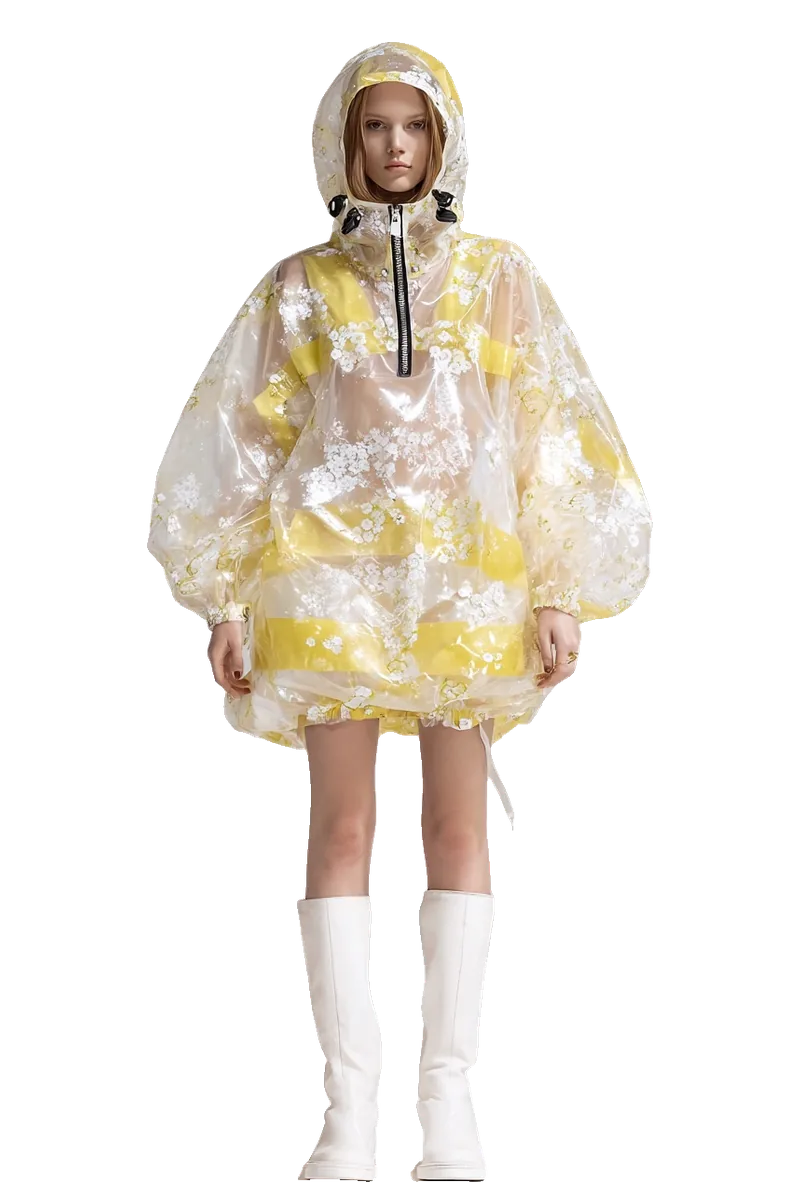
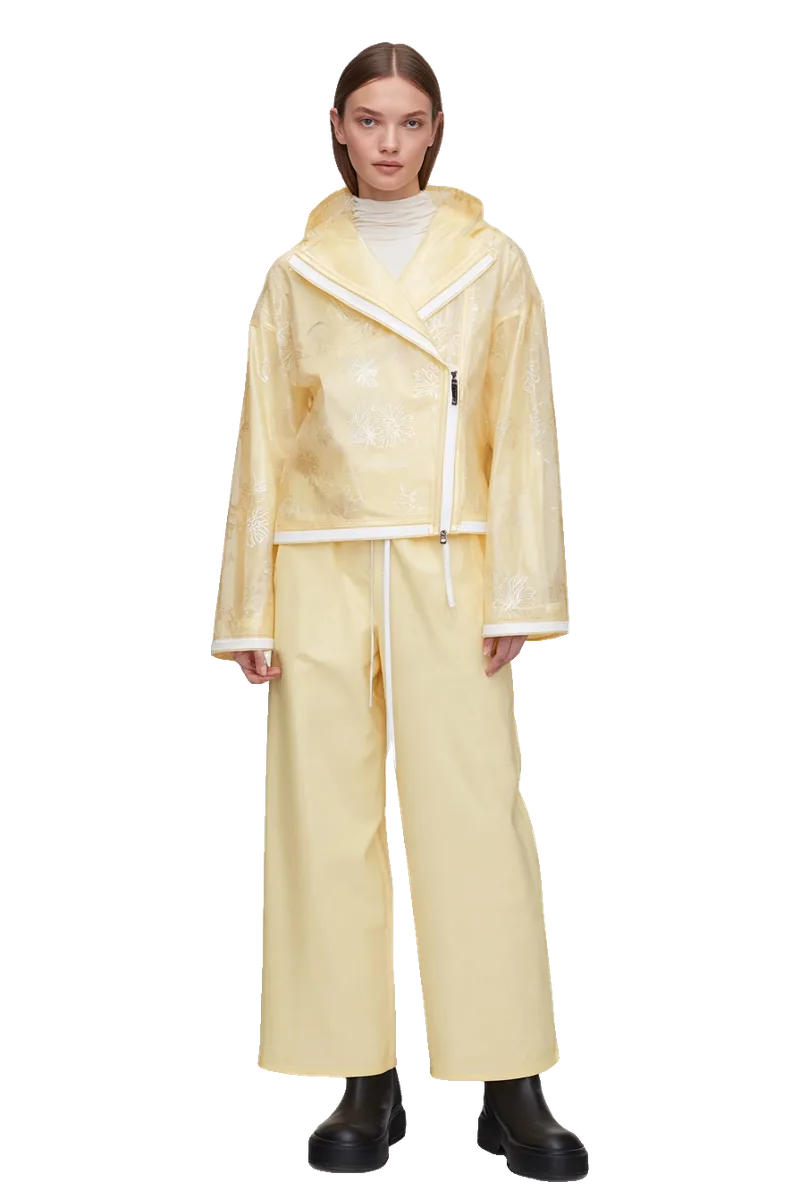
Replace Minimalism with Gown (white cropped top, emerald bubble skirt); sporty women in the hooded wrap jacket (viki)
Claude-Session: https://claude.ai/code/session_01YMBAkRuHP5nZdSGqmGgWNo

Changed region(s): [[0.1875, 0.0308, 0.8125, 0.9867]]

diff --git a/index.html b/index.html
@@ -298,16 +298,16 @@ footer { border-top: 1px solid var(--hair); padding-inline: 20px; padding-block:
 const PICKS = 6;
 
 // Test 1: six looks from classic to trendy. Images are Midjourney picks (v4 on 10/1, later fixes on 10/2), cut out onto transparent WebP, all figures the same height.
-// 10/2: viki dropped Playful and Glamorous sparkle (too close to Romantic) and added Power tailoring. Later the same day she added Sporty as a sixth style, and replaced Futuristic with Minimalism (black, the simplest cut).
+// 10/2: viki dropped Playful and Glamorous sparkle (too close to Romantic) and added Power tailoring. Later the same day she added Sporty as a sixth style, and replaced Futuristic with Minimalism (black, the simplest cut). Late that night she replaced Minimalism with Gown (white cropped top, huge emerald bubble skirt).
 // img / imgPractical: womenswear; imgMen / imgPracticalMen: shown to people who choose "Menswear". Swap any file in img/ to change a pick.
 // Round 2: imgPractical is the same style made practical for rain (mid-calf, hood up).
-const LOOK_FILES = { classic: "1-classic", quiet: "2-quiet", romantic: "3-romantic", tailored: "4-tailored", minimal: "5-minimal", sporty: "6-sporty" };
+const LOOK_FILES = { classic: "1-classic", quiet: "2-quiet", romantic: "3-romantic", tailored: "4-tailored", gown: "5-gown", sporty: "6-sporty" };
 const LOOKS = [
   { id: "classic",  name: "Classic heritage",  fill: "#b89b72", trim: "#8f7550", mark: "belt" },
   { id: "quiet",    name: "Quiet luxury",      fill: "#d8cfc2", trim: "#bfb4a4", mark: "none" },
   { id: "romantic", name: "Romantic",          fill: "#f1ece4", trim: "#ffffff", mark: "ruffle" },
   { id: "tailored", name: "Power tailoring",   fill: "#4a5a78", trim: "#2f3b52", mark: "lapel" },
-  { id: "minimal",  name: "Minimalism",        fill: "#1f1f1f", trim: "#5c5c5c", mark: "none" },
+  { id: "gown",     name: "Gown",              fill: "#2f7d62", trim: "#f4f1ea", mark: "none" },
   { id: "sporty",   name: "Sporty",            fill: "#efe3a8", trim: "#b39d4a", mark: "zip" }
 ].map(l => {
   const f = "img/" + LOOK_FILES[l.id];
